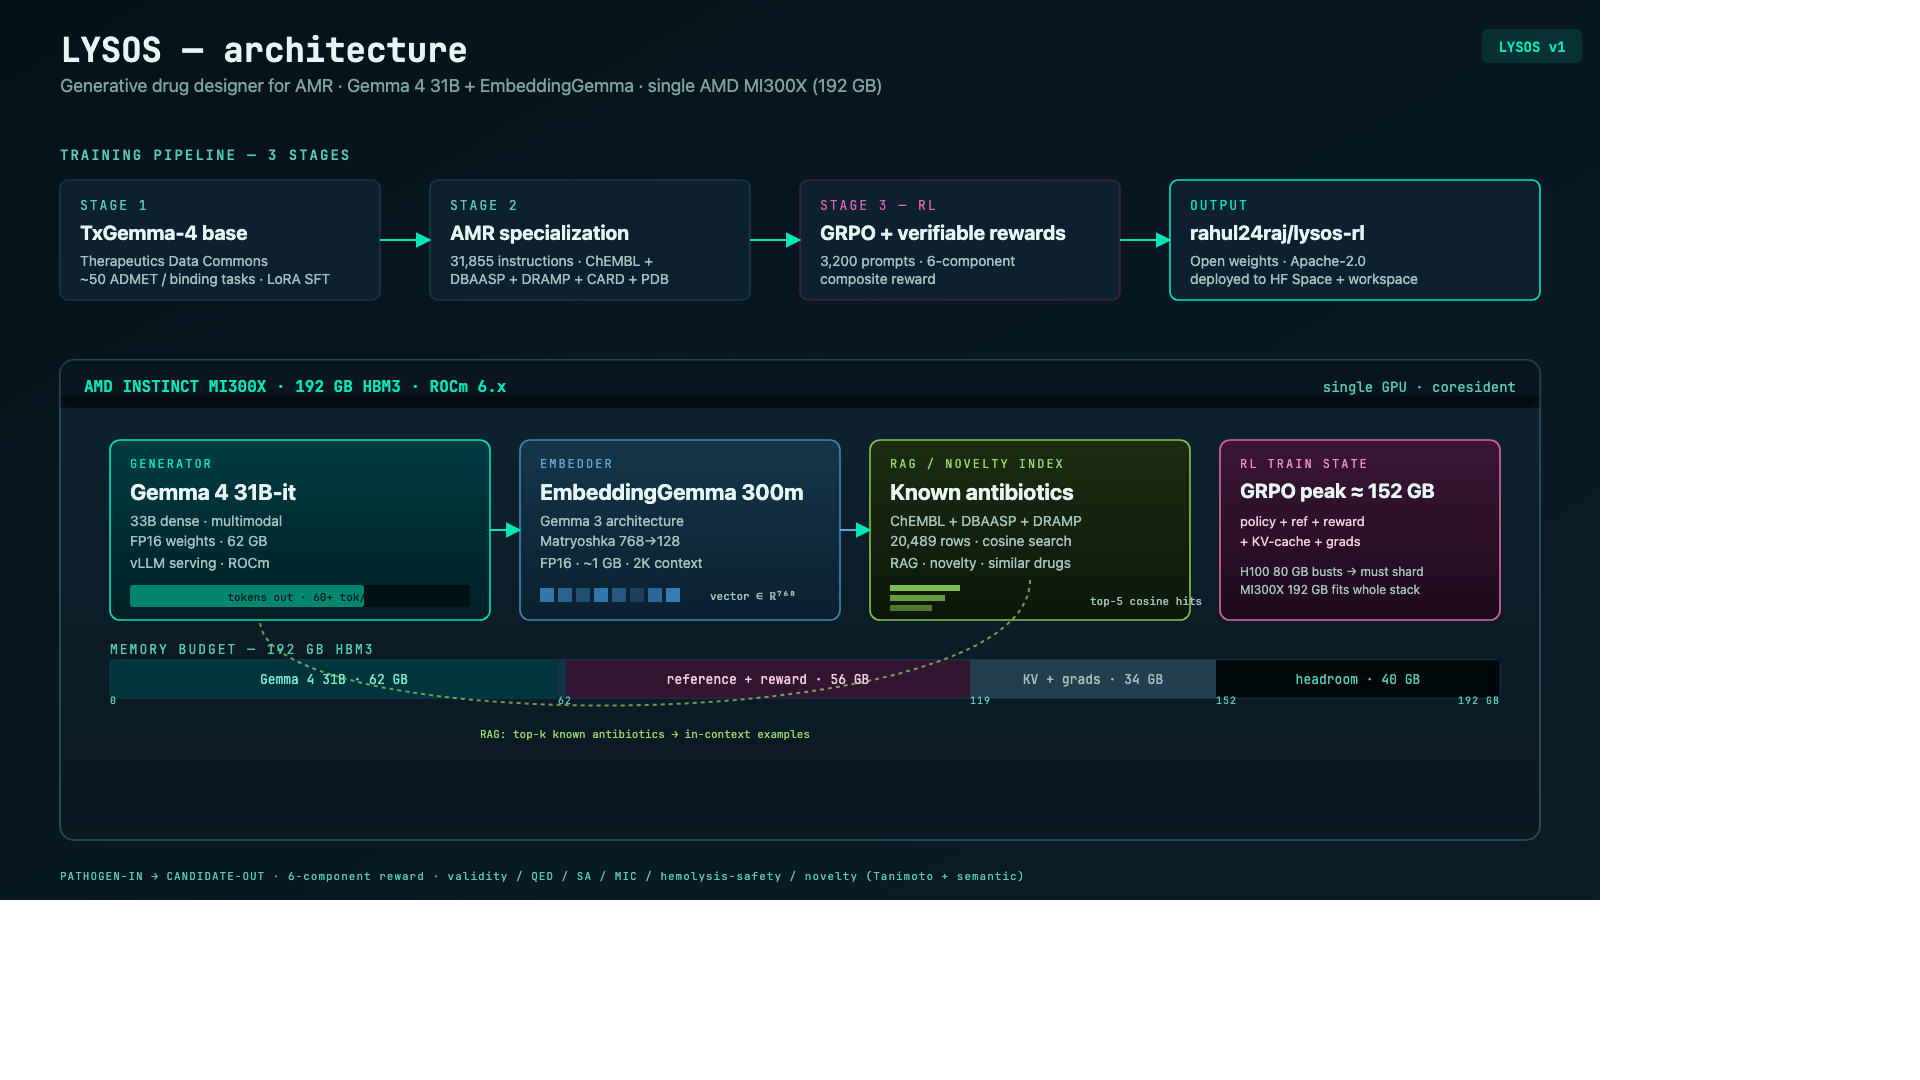
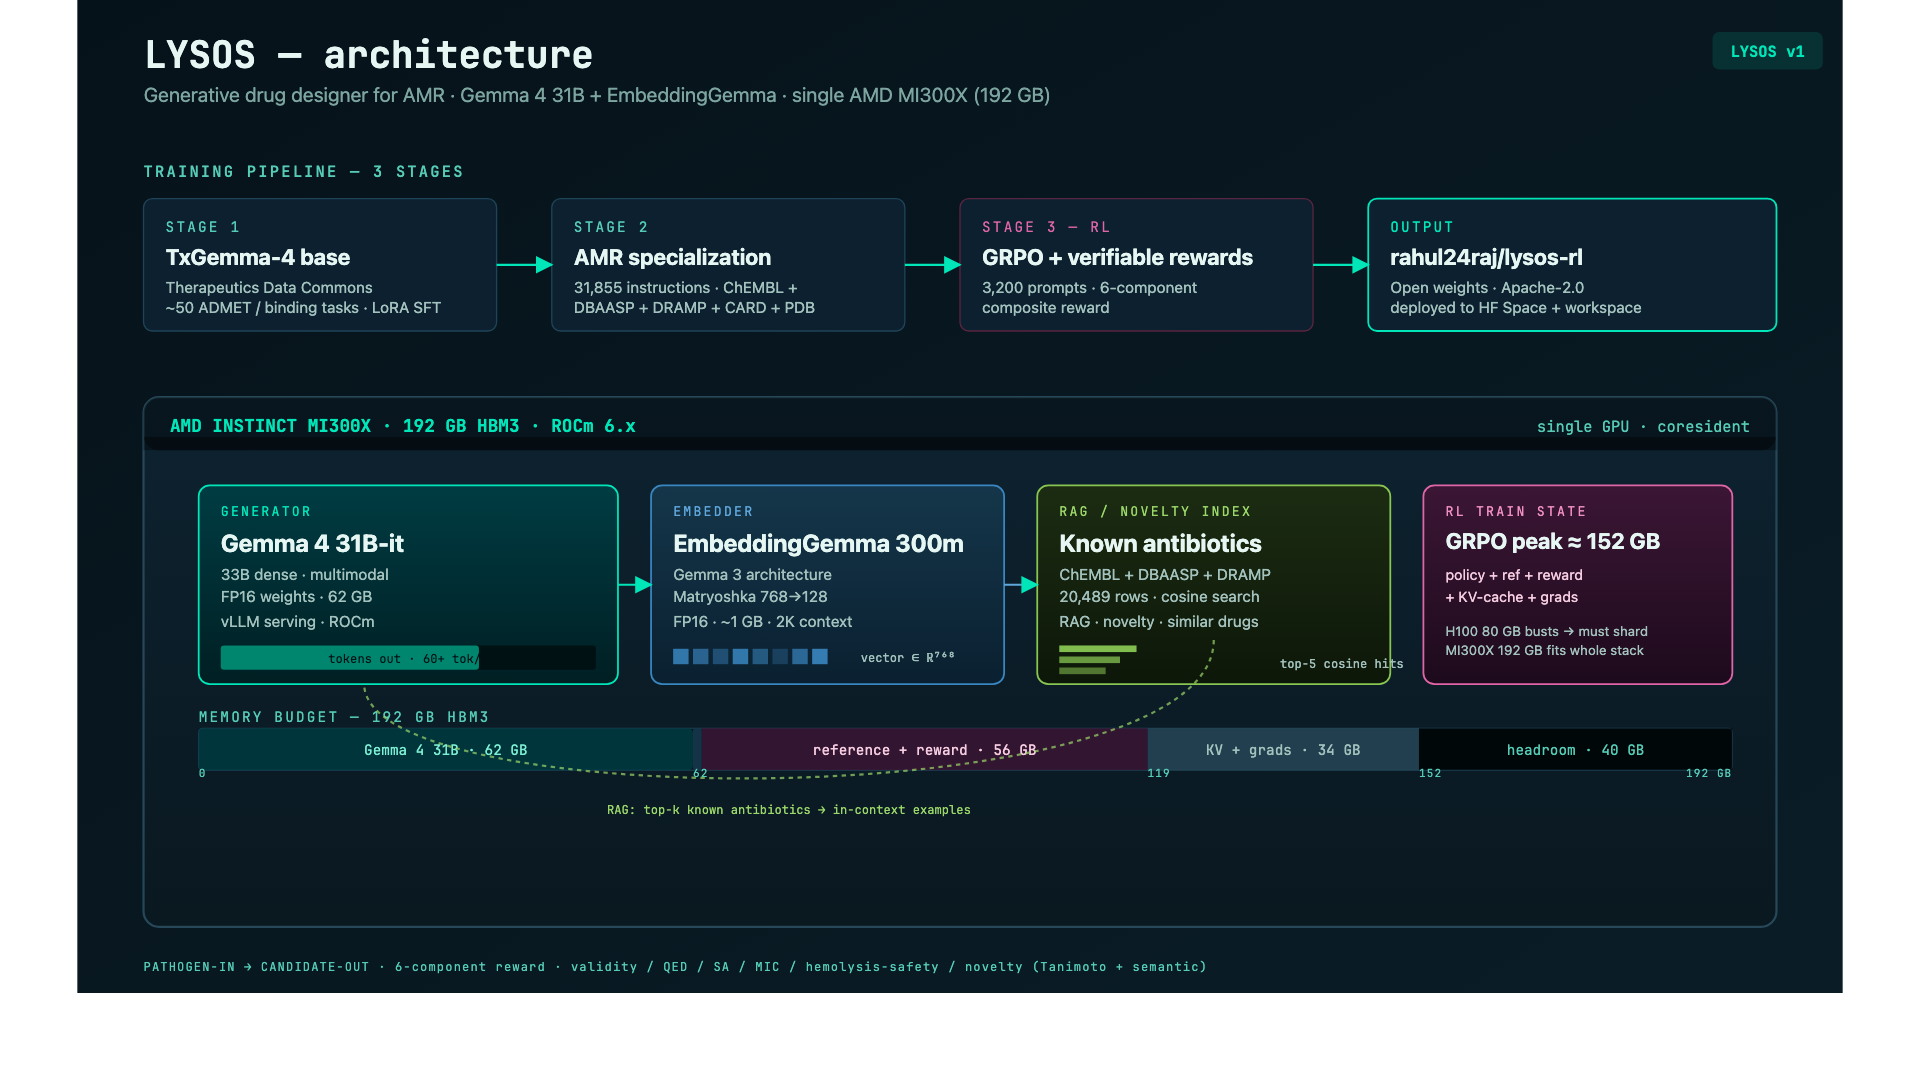
Render assets via HTML wrapper — fixes whitespace bug for non-1920 SVGs

diff --git a/scripts/render_assets.py b/scripts/render_assets.py
@@ -16,10 +16,31 @@ Output PNGs land next to each SVG with the same basename:
 from __future__ import annotations
 
 import argparse
+import re
 import shutil
 import subprocess
 import sys
 from pathlib import Path
+
+
+_VIEWBOX_RE = re.compile(r'viewBox="([\d.\s-]+)"')
+_WIDTH_RE = re.compile(r'\bwidth="(\d+)"')
+_HEIGHT_RE = re.compile(r'\bheight="(\d+)"')
+
+
+def svg_size(svg: Path) -> tuple[int, int]:
+    """Return (width, height) of the SVG's natural canvas size."""
+    text = svg.read_text(errors="ignore")[:1500]
+    m = _VIEWBOX_RE.search(text)
+    if m:
+        parts = m.group(1).split()
+        if len(parts) == 4:
+            return int(float(parts[2])), int(float(parts[3]))
+    w = _WIDTH_RE.search(text)
+    h = _HEIGHT_RE.search(text)
+    if w and h:
+        return int(w.group(1)), int(h.group(1))
+    return 1920, 1080
 
 
 def has(tool: str) -> bool:
@@ -55,20 +76,43 @@ def render_with_chrome(svg: Path, png: Path, width: int) -> None:
     if not Path(chrome).exists() and not shutil.which(chrome):
         raise RuntimeError("no chrome / chromium binary found")
 
-    height = int(width * 9 / 16)
-    subprocess.run(
-        [
-            chrome,
-            "--headless",
-            "--disable-gpu",
-            "--hide-scrollbars",
-            "--default-background-color=00000000",
-            f"--screenshot={png}",
-            f"--window-size={width},{height}",
-            f"file://{svg.resolve()}",
-        ],
-        check=True,
-    )
+    nat_w, nat_h = svg_size(svg)
+    out_w = width
+    out_h = int(round(nat_h * (width / nat_w)))
+
+    import tempfile
+    html = f"""<!doctype html>
+<html><head><meta charset=utf-8>
+<style>
+  html,body {{ margin:0; padding:0; background:transparent; }}
+  body {{ display:flex; align-items:flex-start; justify-content:flex-start; }}
+  object {{ width:100vw; height:100vh; display:block; }}
+</style>
+</head><body>
+<object type="image/svg+xml" data="{svg.resolve()}"></object>
+</body></html>
+"""
+    with tempfile.NamedTemporaryFile(
+        "w", suffix=".html", delete=False, encoding="utf-8"
+    ) as fh:
+        fh.write(html)
+        wrapper = Path(fh.name)
+    try:
+        subprocess.run(
+            [
+                chrome,
+                "--headless",
+                "--disable-gpu",
+                "--hide-scrollbars",
+                "--default-background-color=00000000",
+                f"--screenshot={png}",
+                f"--window-size={out_w},{out_h}",
+                f"file://{wrapper}",
+            ],
+            check=True,
+        )
+    finally:
+        wrapper.unlink(missing_ok=True)
 
 
 def pick_renderer():
